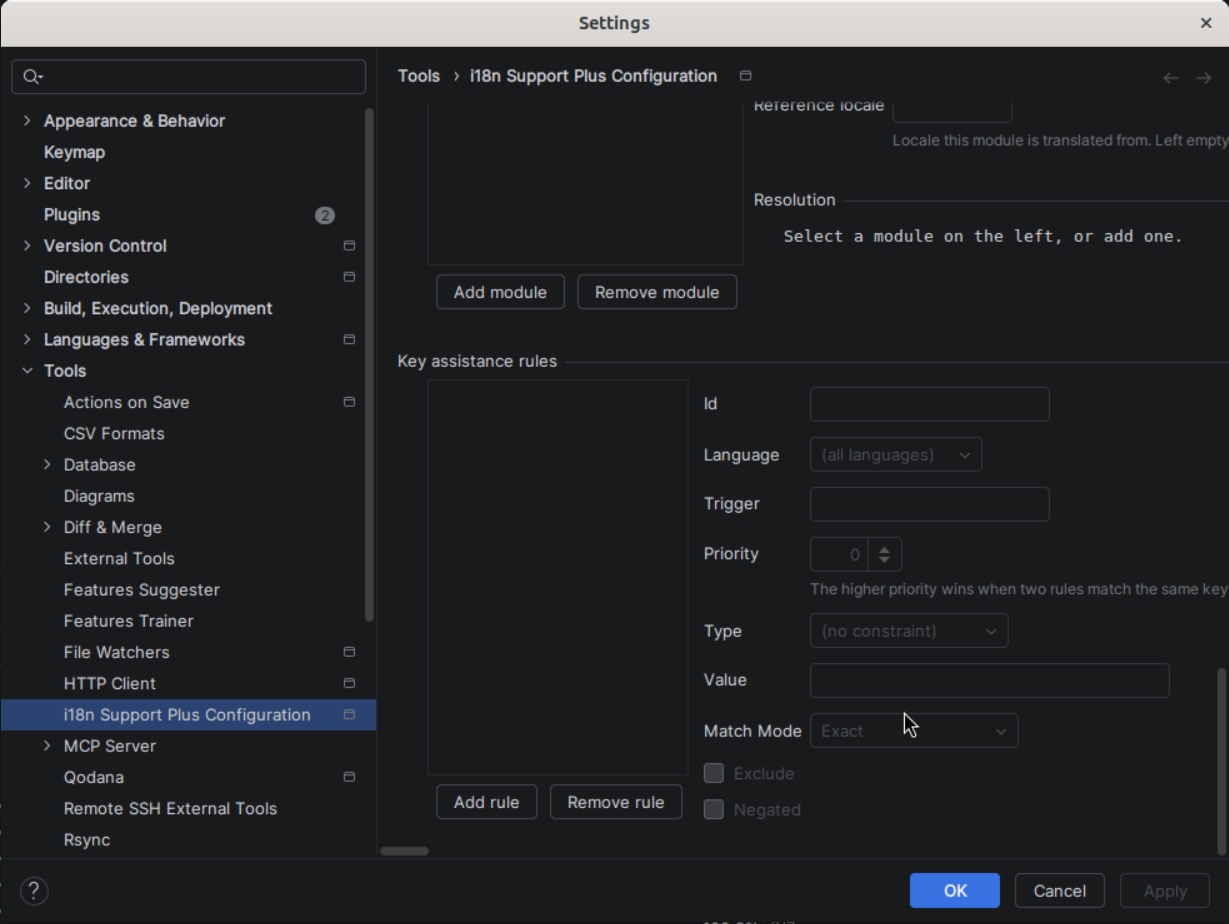
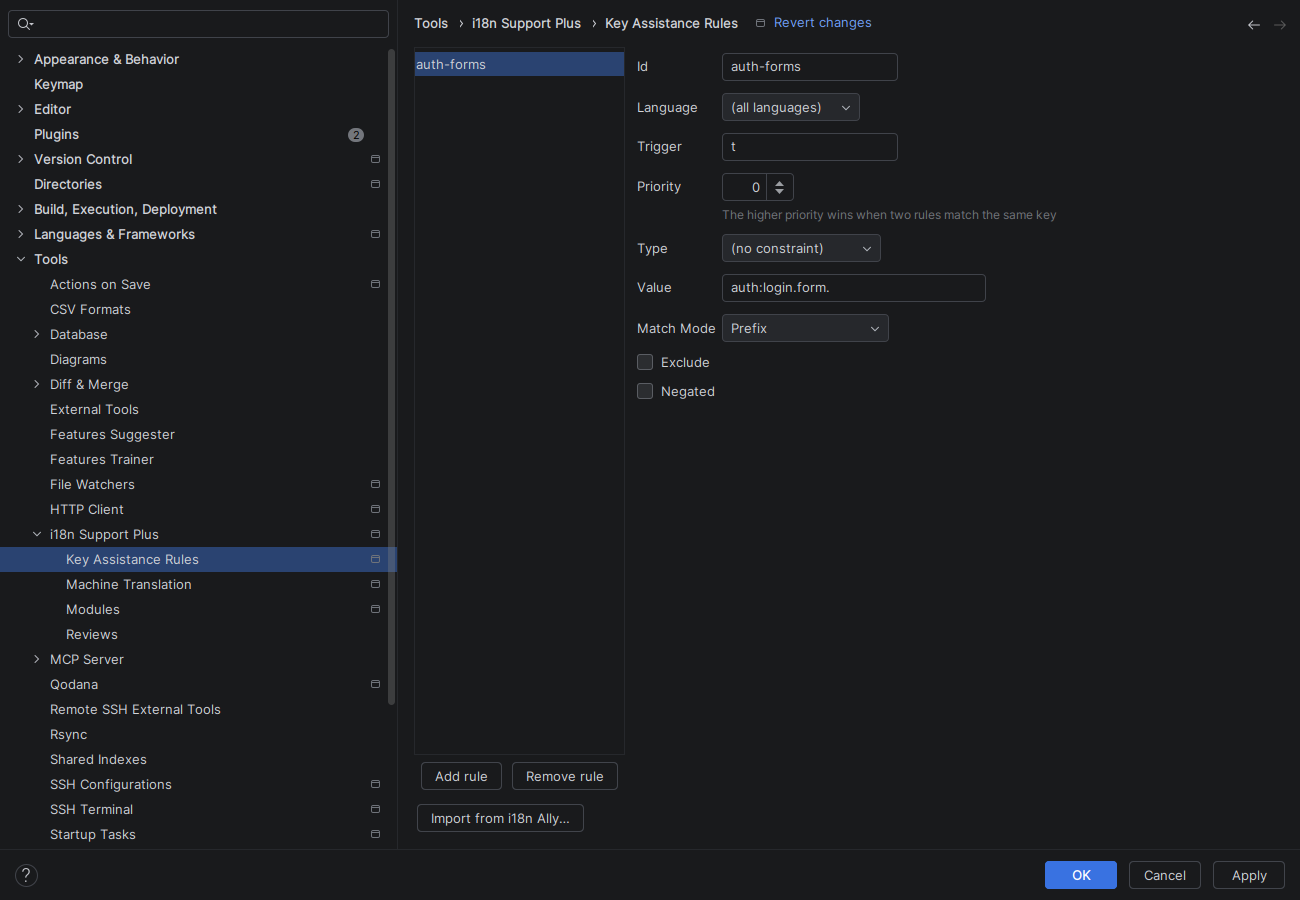
docs(readme): retake the tool window and settings screenshots
Thirteen captures still showed the Tree / Table / Stats tabs replaced in #669
and the settings layout and labels from before #666 and #667.

diff --git a/docs/SCREENSHOTS_CHECKLIST.md b/docs/SCREENSHOTS_CHECKLIST.md
@@ -2,13 +2,17 @@
 
 ## Setup
 
-1. Lancer `./gradlew runIde`
+1. Lancer `./gradlew runWebStorm` (propriété `webStormPath` requise) : le sandbox `runIde` d'IntelliJ IDEA Ultimate
+   démarre sans licence et ne charge pas le support JavaScript
 2. Ouvrir `examples/react-multi-namespace/` — c'est le projet de référence : cinq namespaces
    (`auth`, `common`, `dashboard`, `deposit-box`, `navigation`), deux locales (`en`, `fr`),
    des clés manquantes et vides prêtes à l'emploi
 3. Thème sombre par défaut de l'IDE, fenêtre d'outil ancrée en bas, largeur ≥ 1400 px
 4. Outil recommandé : [ScreenToGif](https://www.screentogif.com/) ou la capture système ;
    PNG, sans mise à l'échelle, rognée à la zone utile
+5. Sous Xvfb, sans gestionnaire de fenêtres : `WAYLAND_DISPLAY` bidon et `XDG_SESSION_TYPE=x11` pour que l'IDE
+   s'ouvre sur l'écran virtuel, écran de 1920×1440 pour que la page de réglages tienne de *Namespaces* à *Checks*.
+   Ne jamais capturer un chemin absolu local (panneau *Resolution* des modules) ni la modale de licence
 
 ---
 
@@ -18,33 +22,27 @@
 `extraction.png`, `extraction-intent.png`, `extraction-add-namespace.png`, `gutter-icons.png`,
 `gutter-icons-tooltip.png`, `hover-hint.png`, `inlay-hints.png`, `navigation.png`.
 
-## À refaire
+## Captures de la fenêtre d'outil et des réglages — refaites le 2026-10-26
 
-### Fenêtre d'outil — périmées depuis #669 (vues *Tree / Table / Stats* dans la barre d'outils, plus d'onglets)
+Vues *Tree / Table / Stats* dans la barre d'outils (#669), libellés et sous-pages de #666 / #667, WebStorm 2026.1.
 
-Capturées le 2026-09-14 avec la rangée d'onglets. Refaire avec la barre d'outils actuelle, fenêtre ≥ 1400 px
-pour que les filtres *Namespace* et *Status* de la table soient à côté de la recherche.
-
-| Fichier | Contenu attendu |
+| Fichier | Contenu |
 |---|---|
 | `toolwindow-tree-namespaces.png` | les cinq groupes repliés avec leur complétude, dont `common (default)` |
-| `toolwindow-tree.png` | groupes de namespace dépliés (`auth`, `common`, `dashboard`), badges `EN✓ FR✓`, légende |
-| `toolwindow-table.png` | colonne Namespace avec `common (default)`, clés sans préfixe, une cellule *Missing*, en-tête *Usage (not counted)* |
+| `toolwindow-tree.png` | groupes de namespace dépliés (`common`, `auth`, `dashboard`), badges `EN✓ FR✓`, légende |
+| `toolwindow-table.png` | colonne Namespace avec `common (default)`, deux cellules *Missing*, en-tête *Usage (not counted)* |
 | `toolwindow-table-namespace-filter.png` | combo *All namespaces* déroulée, `common (default)` en tête |
-| `toolwindow-table-orphans.png` | vue **Table**, après **Count Key Usages** (barre d'outils), clic droit sur une ligne *No reference* : colonne Usage remplie, états *Dynamic*, menu ouvert sur *Delete Key with No Reference* (capture de mars) |
+| `toolwindow-table-orphans.png` | après **Count Key Usages** : colonne Usage remplie, menu ouvert sur *Delete Key with No Reference* (l'exemple n'a pas de clé *Dynamic*) |
 | `toolwindow-stats.png` | matrice Namespace × locale, ligne Total, `common (default)`, barres vertes/orange |
-| `toolwindow-stats-popup.png` | popup `common — 'fr': 2 missing, 0 empty — reference: en` sous la cellule |
+| `toolwindow-stats-popup.png` | popup `common (default) — 'fr': 2 missing, 0 empty` sous la cellule (titre tronqué par la popup) |
 | `toolwindow-create-translation.png` | dialogue *Create Translation* rempli (clé vérifiée, chemins, *Copy Reference to Empty Locales*) |
 | `toolwindow-create-namespace.png` | sous-dialogue *Add Namespace* ouvert par le `+` |
-
-### Réglages — périmées depuis #666 et #667 (libellés renommés, sous-pages *Modules* et *Key Assistance Rules*, groupe *Checks*)
-
-| Fichier | Contenu attendu |
-|---|---|
 | `settings.png` | page principale : *Namespaces and separators*, *Where translations are searched*, *Checks* |
-| `settings-folding.png` | *Folding and preview* (*Project reference locale*), *Key extraction*, *PHP / gettext*, *Appearance* |
-| `settings-modules.png` | sous-page *Modules* : liste à gauche, case *Active*, panneau *Resolution* |
-| `settings-rules.png` | sous-page *Key Assistance Rules*, bouton *Import from i18n Ally…* |
+| `settings-folding.png` | *Folding and preview* (*Project reference locale*), *Key extraction*, *PHP / gettext*, *Appearance*, *All projects* |
+| `settings-modules.png` | sous-page *Modules* : module `web`, case *Active*, panneau *Resolution* (chemin absolu hors cadre) |
+| `settings-rules.png` | sous-page *Key Assistance Rules* : règle `auth-forms`, bouton *Import from i18n Ally…* |
+
+Le module et la règle des deux dernières captures sont saisis pour l'occasion puis abandonnés par *Cancel*.
 
 ## À vérifier
 - `sync-missing-keys.png` (mars) : refaire si le dialogue a changé d'aspect
@@ -59,5 +57,5 @@ pour que les filtres *Namespace* et *Status* de la table soient à côté de la 
 | Statut | Nombre |
 |--------|--------|
 | Refaites le 2026-10-25 | 15 |
-| À refaire | 13 (fenêtre d'outil 9, réglages 4) |
+| Refaites le 2026-10-26 | 13 (fenêtre d'outil 9, réglages 4) |
 | À vérifier | 4 |
